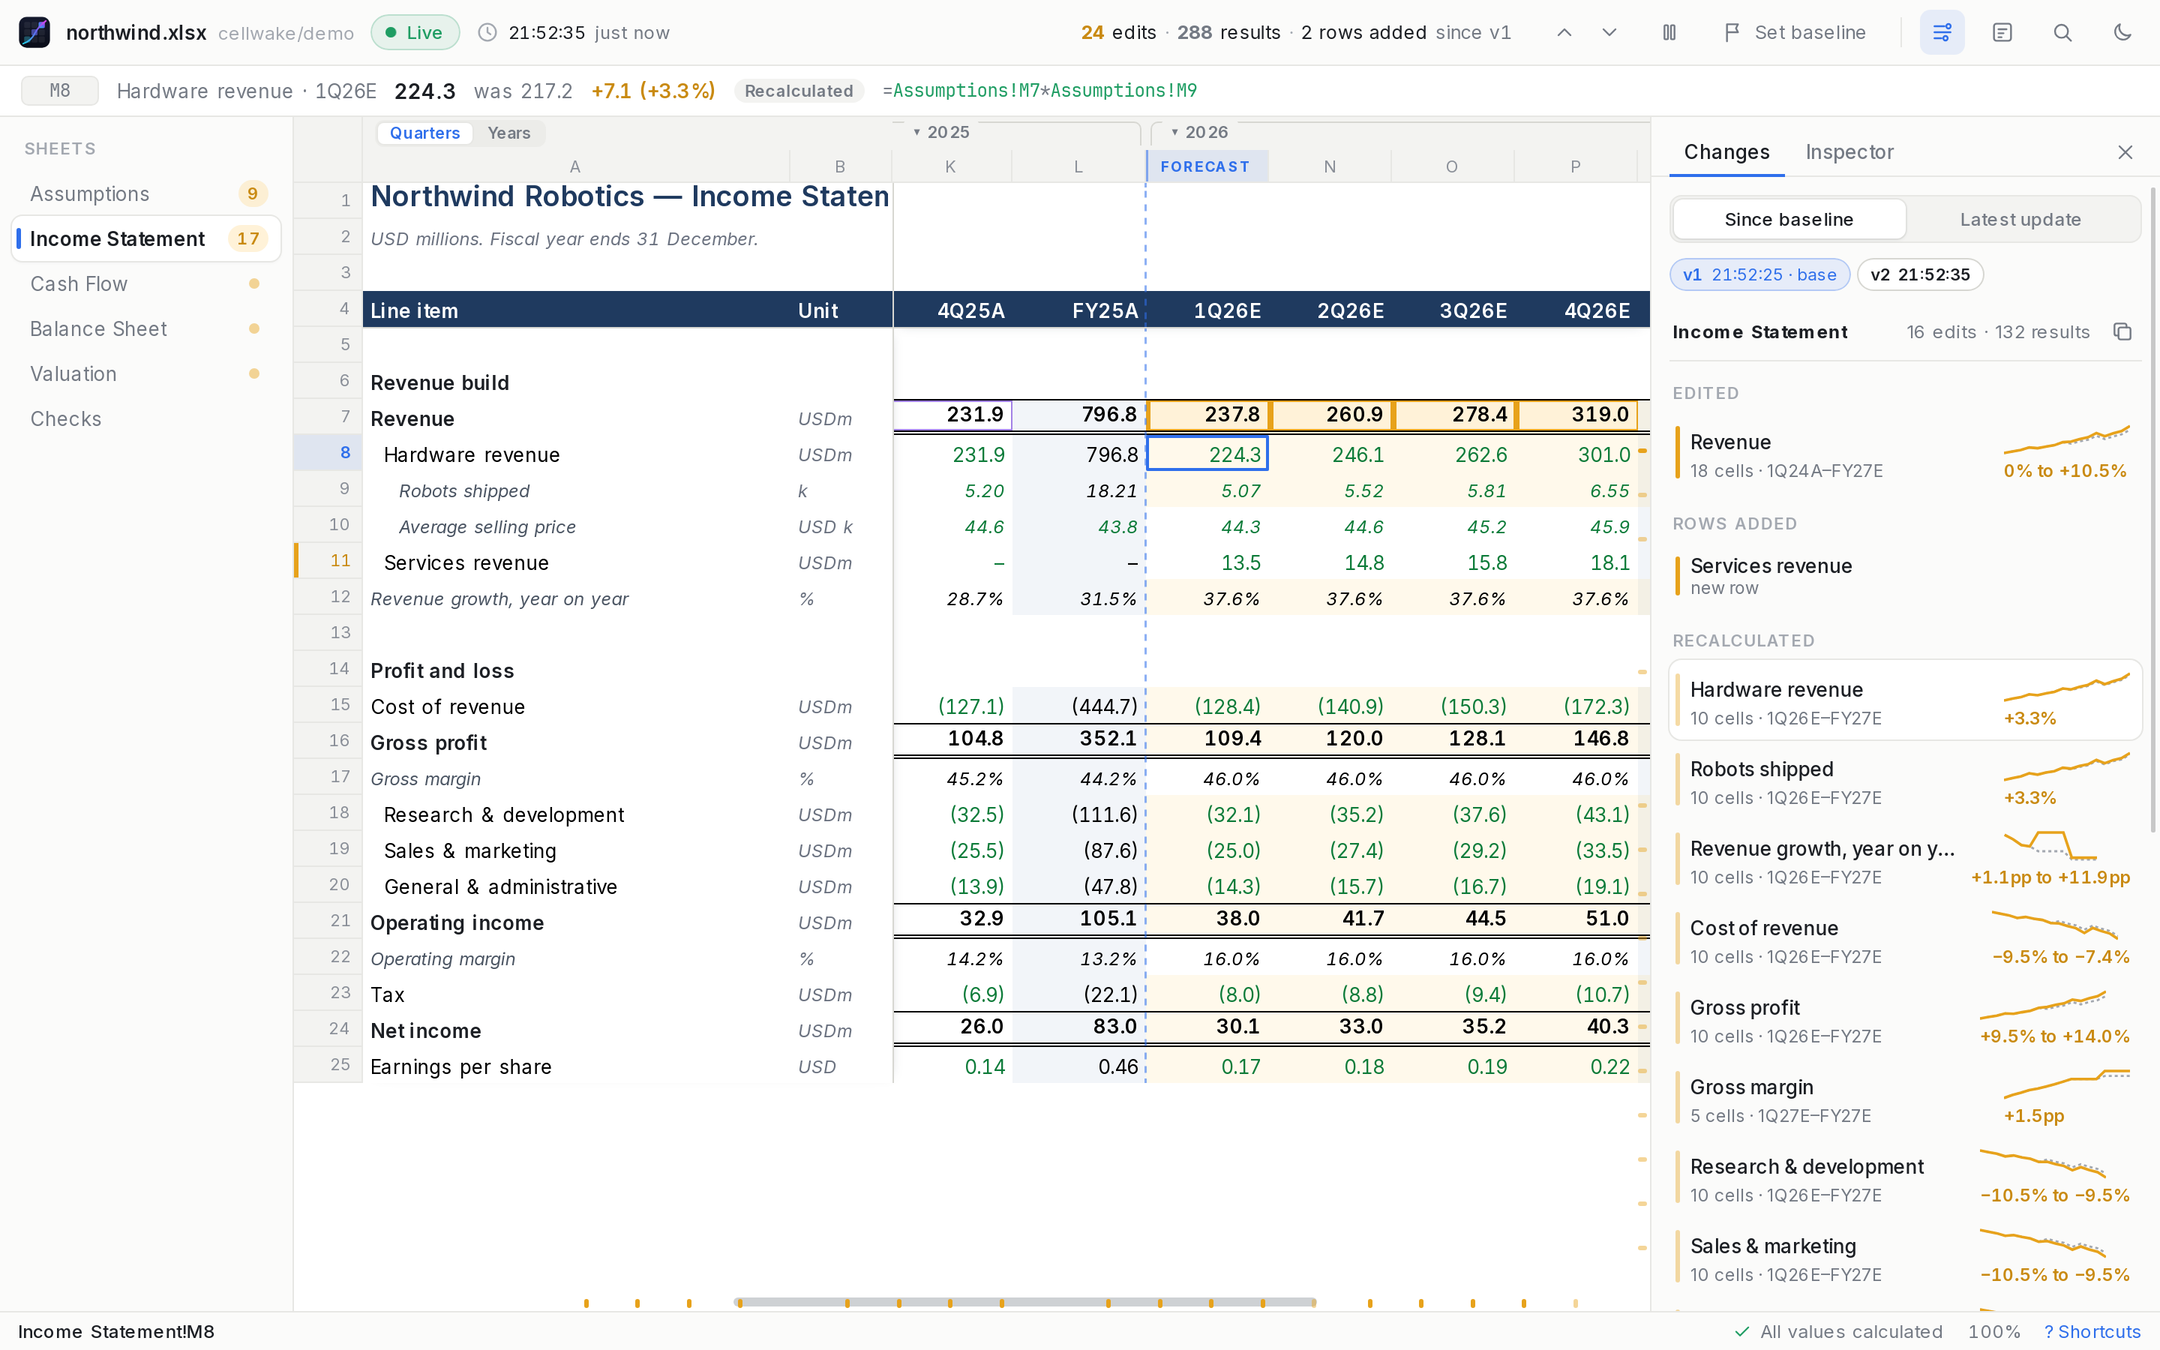
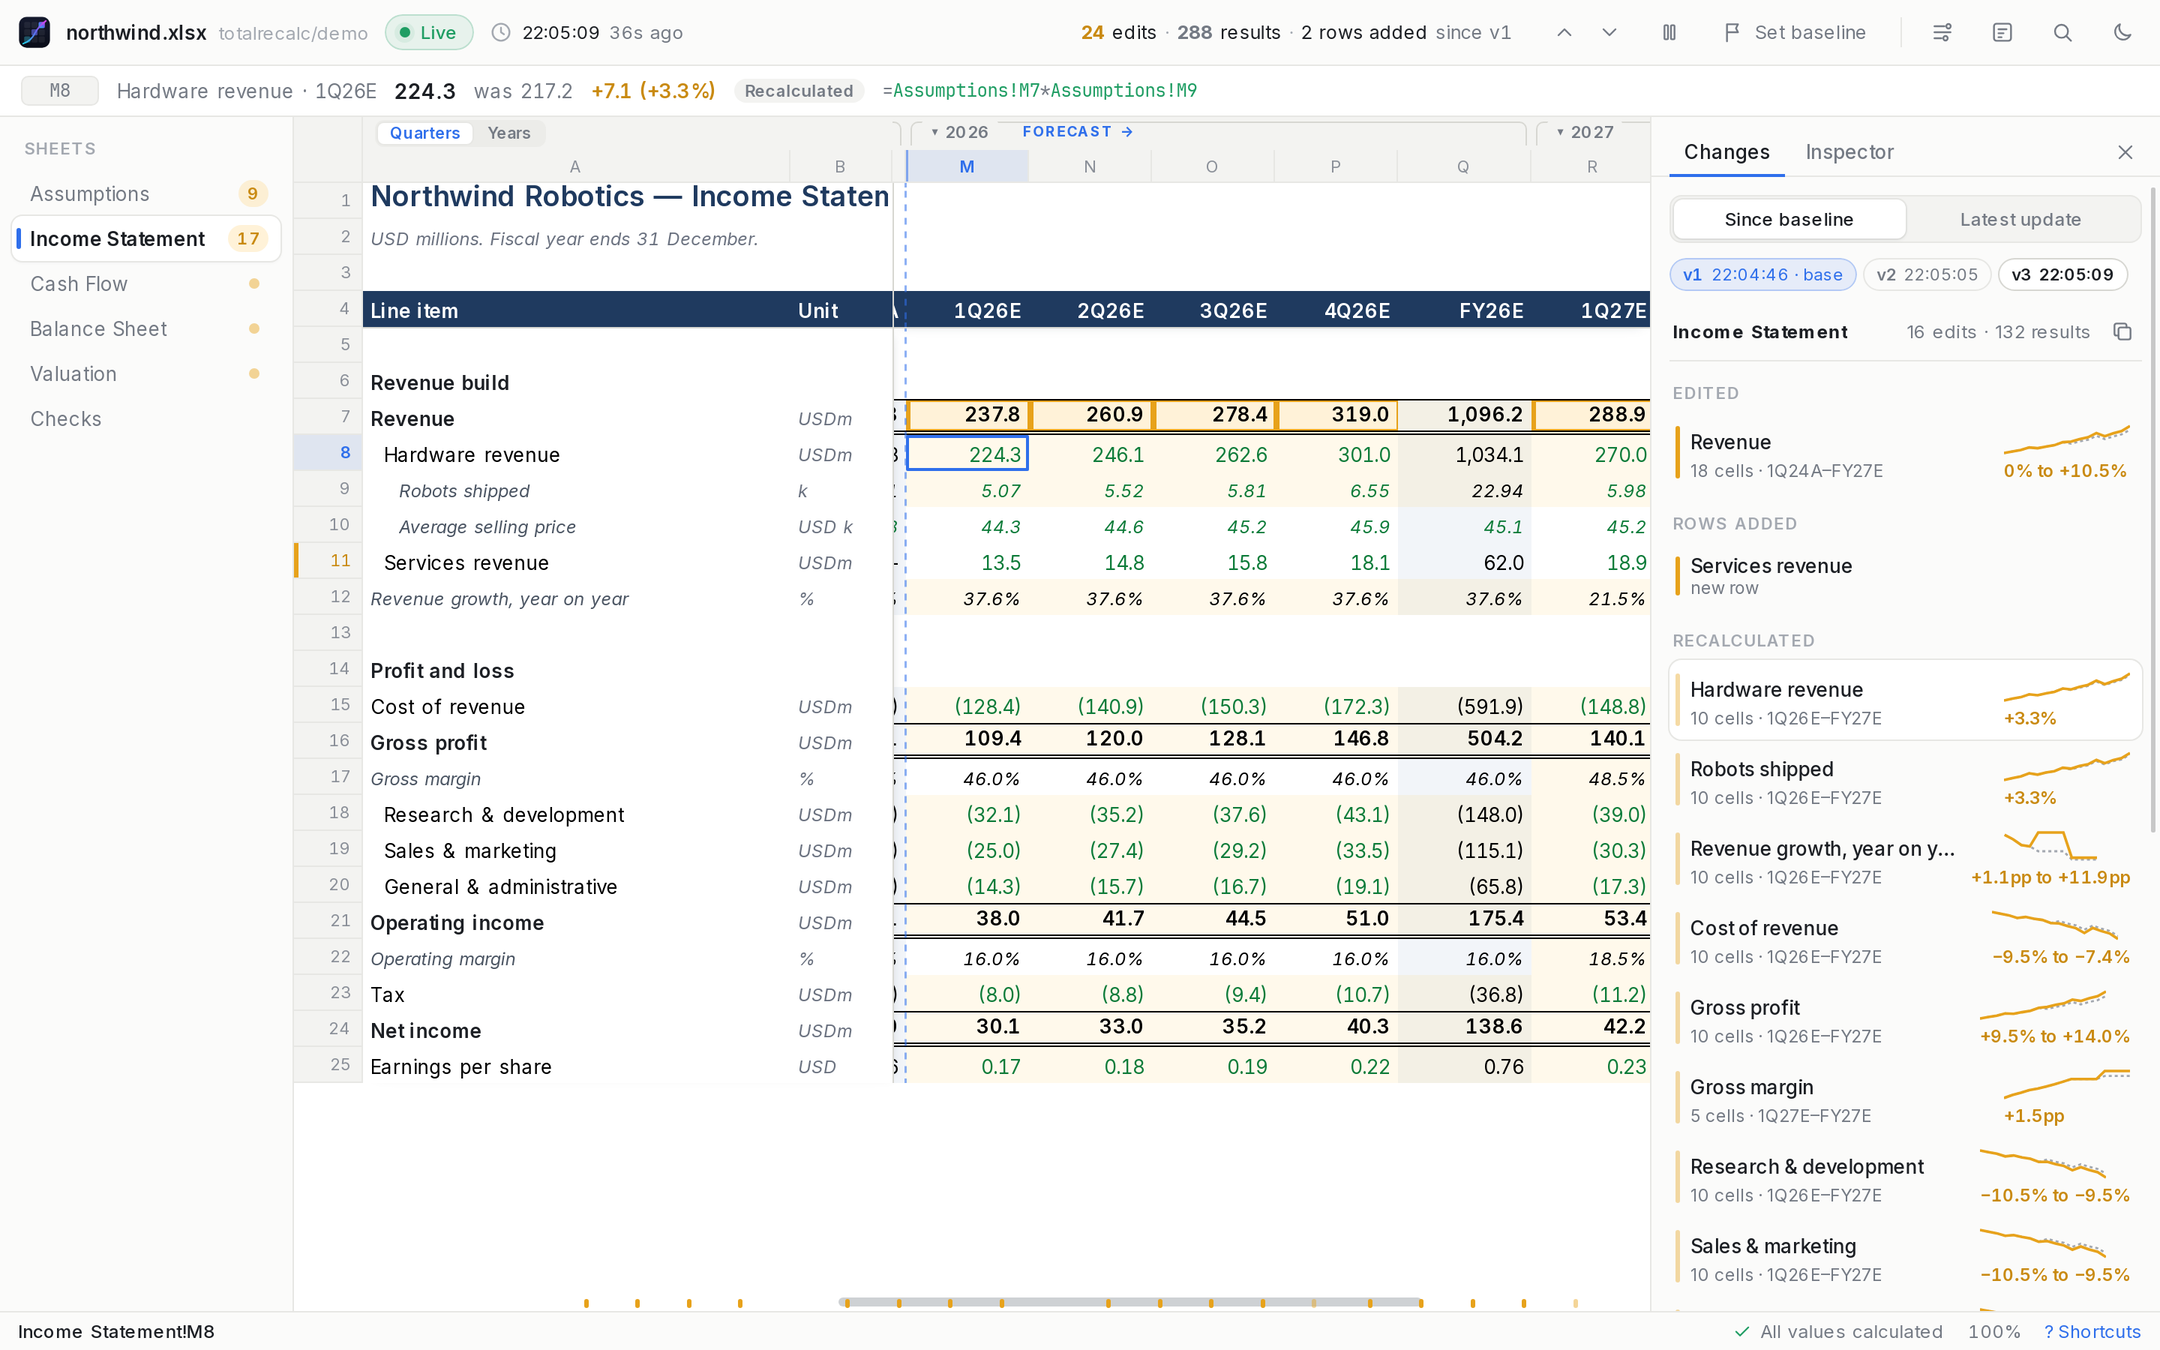
Show the live update in the README with a recording of the wake
A still screenshot cannot show the app's main idea, following an agent's
edits as they land. The README now opens with a short recording of two
agent edits arriving, and the screenshots are retaken under the new name.

diff --git a/README.md b/README.md
@@ -6,7 +6,7 @@
 A fast, read-only viewer for Excel workbooks that refreshes itself the moment the file changes, keeps your place, and shows exactly what the agent edited and what recalculated as a result.</p>
 
 <p align="center">
-  <img src="docs/screenshots/hero.png" alt="Total Recalc showing a financial model just after an agent edit, with the Changes panel open" width="100%" />
+  <img src="docs/wake.gif" alt="An agent edits the model twice; Total Recalc follows each update and ripples across the cells that changed" width="100%" />
 </p>
 
 ---
@@ -38,6 +38,10 @@ Total Recalc is built for that loop:
 | **Faithful rendering** | Number formats, fonts, fills, borders, merged cells, frozen panes, hidden rows and columns, comments and Excel-style text overflow. Light mode looks like Excel; dark mode remaps workbook colours so dark header fills and blue inputs stay legible. |
 | **Honest numbers** | Every version is recalculated by a built-in engine ([IronCalc](https://github.com/ironcalc/IronCalc)). Where a file saved by Excel disagrees with the engine (functions it handles differently), Excel's saved value is shown and marked as coming from the cache. |
 | **Command palette** | `Ctrl+K` for every action, sheet and row label. `Ctrl+G` goes to a cell or label, `Ctrl+F` searches the sheet. |
+
+<p align="center">
+  <img src="docs/screenshots/hero.png" alt="The Changes panel after an agent edit: edited rows, an added row and recalculated results with before/after sparklines" width="100%" />
+</p>
 
 <p align="center">
   <img src="docs/screenshots/years.png" alt="Quarters collapsed to years" width="49%" />
